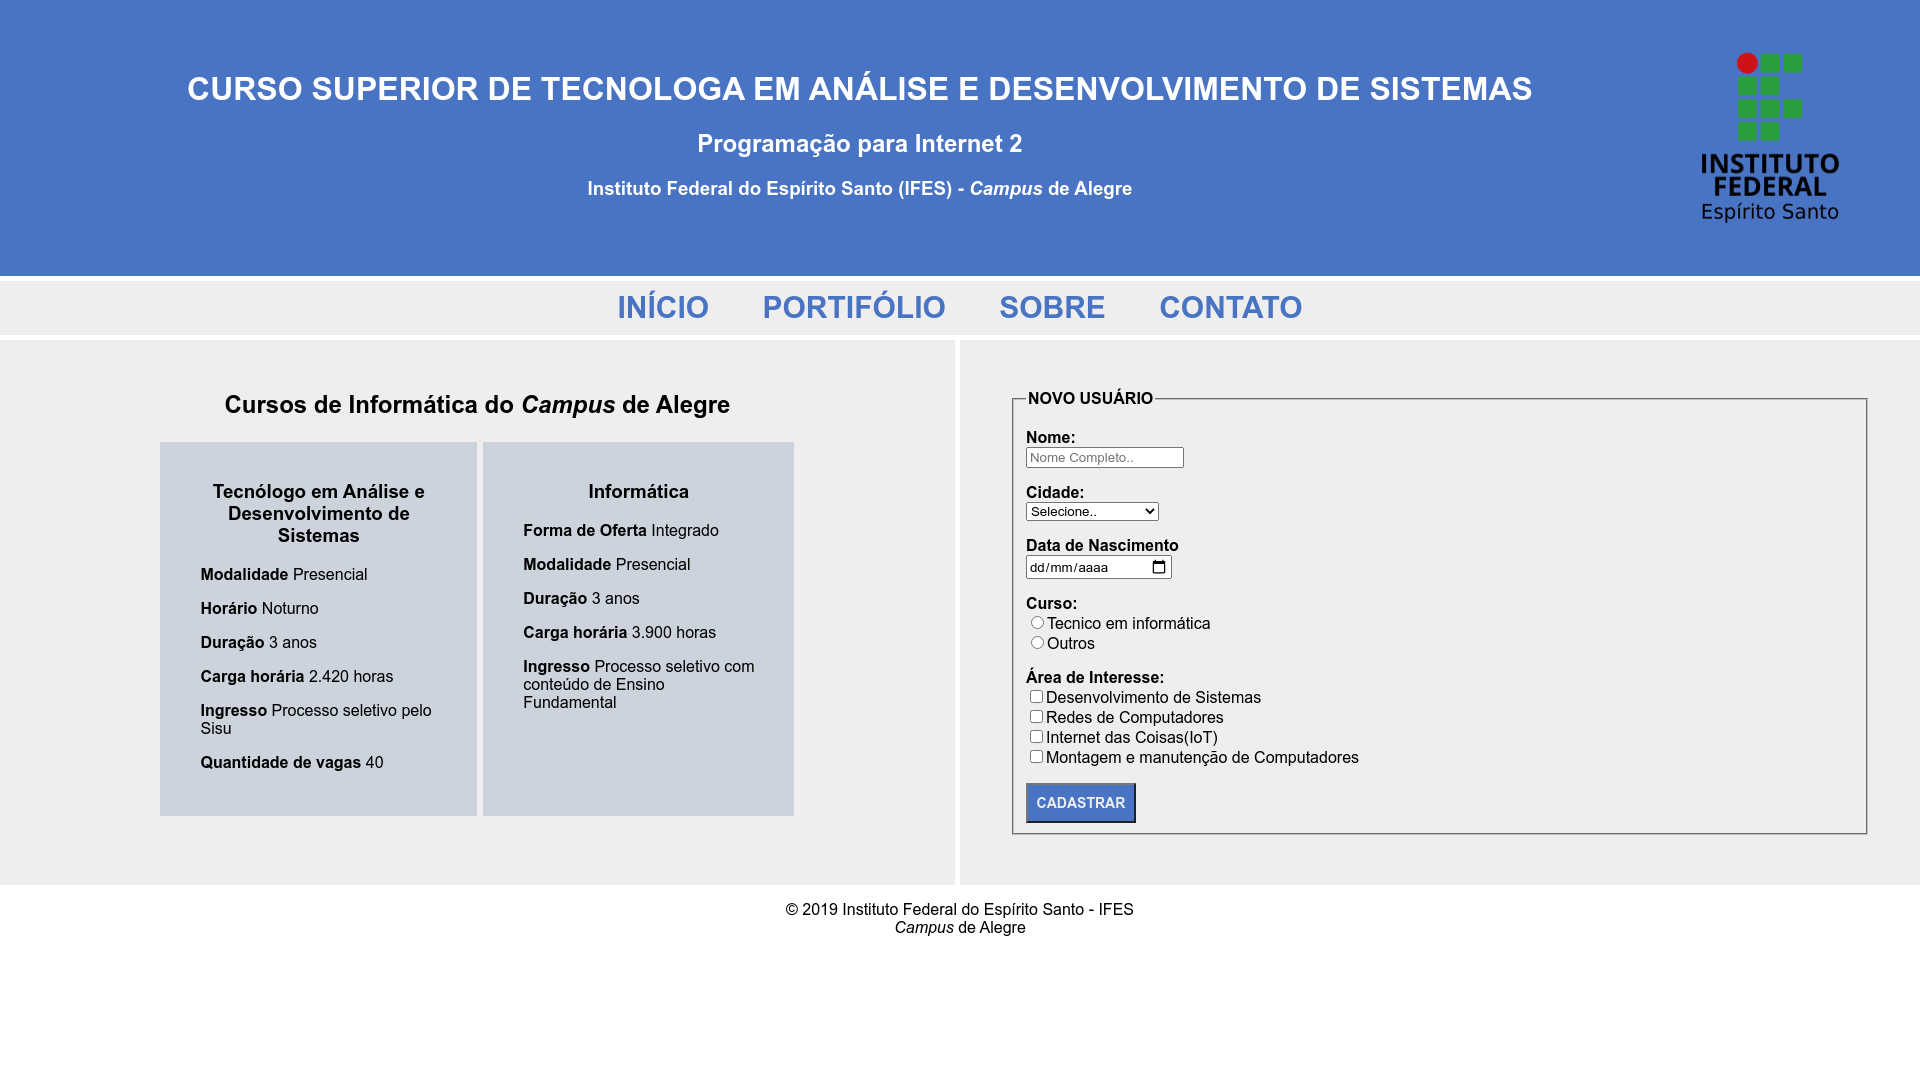
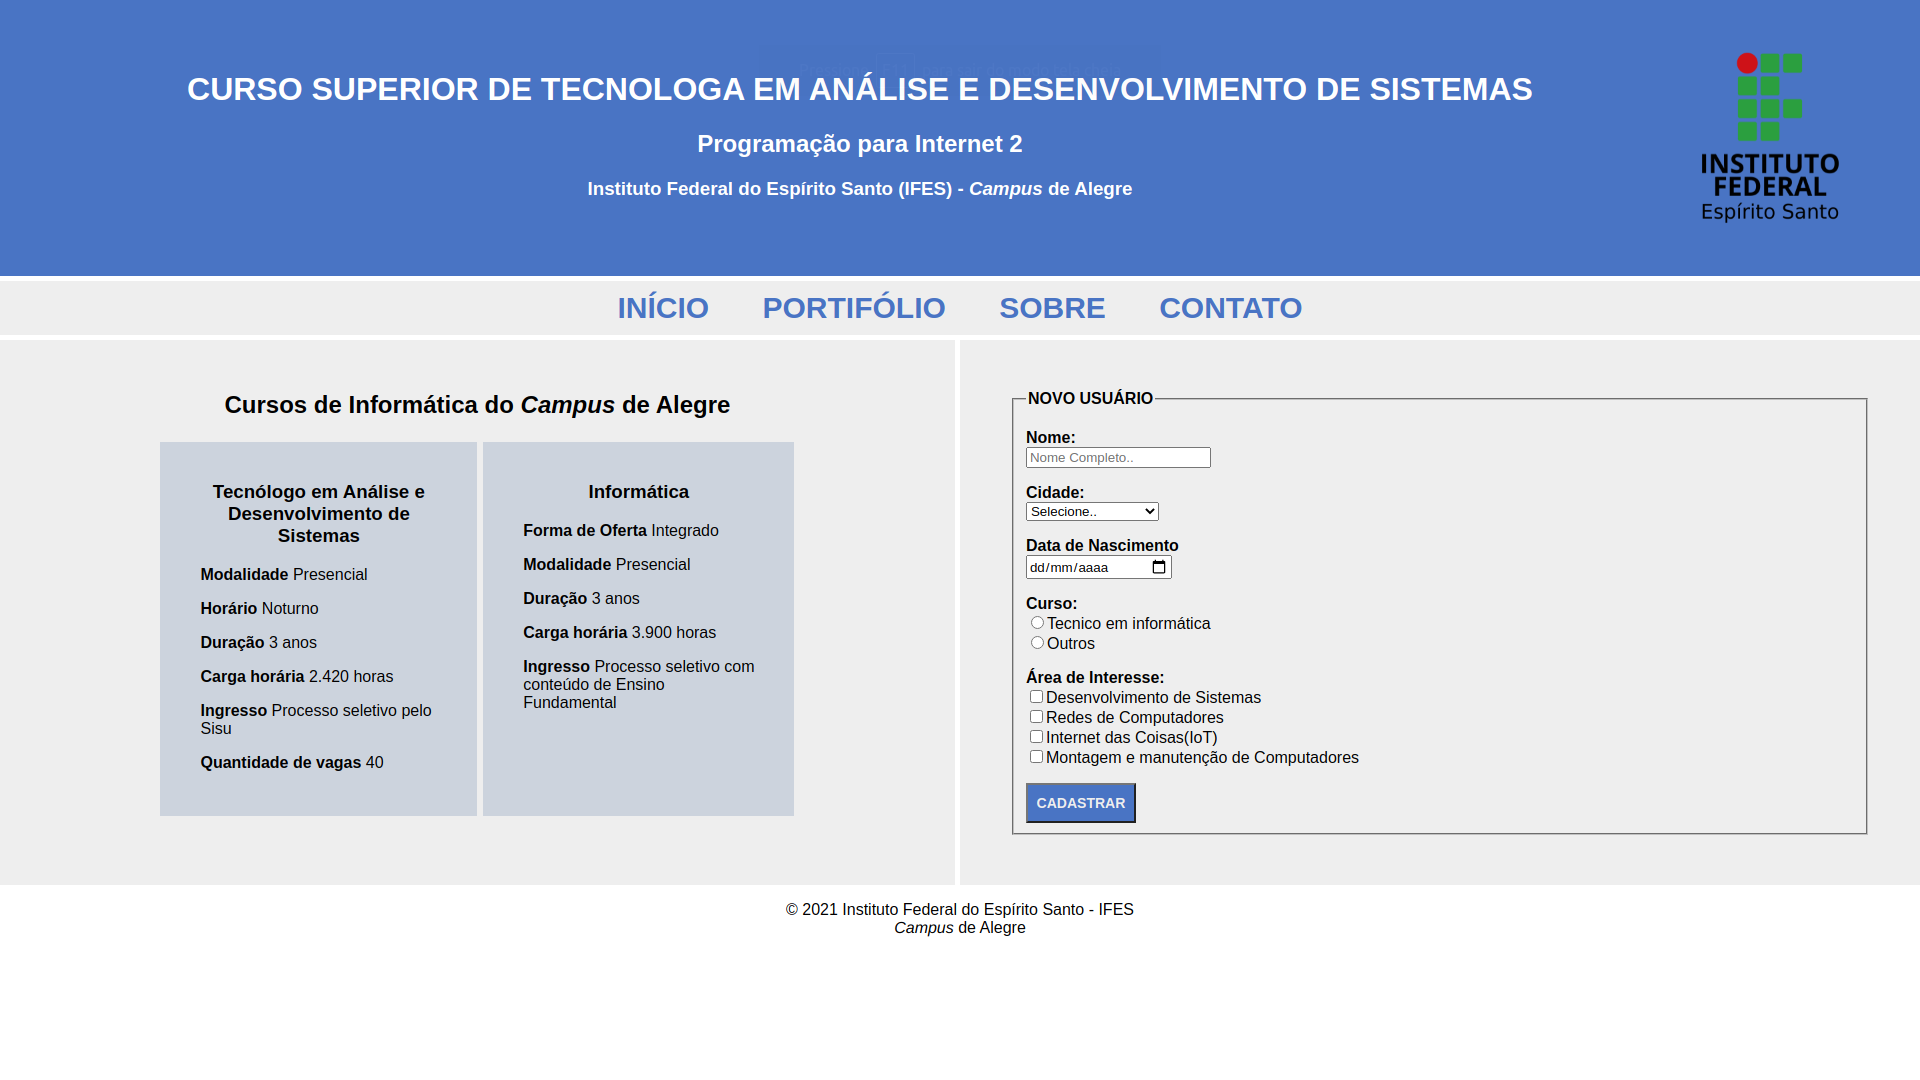
Corrigido detalhes

diff --git a/Web/Copia-da-Pagina-do-IFES v2/index.html b/Web/Copia-da-Pagina-do-IFES v2/index.html
@@ -103,7 +103,7 @@
 
     <footer>
       <p>
-        &copy; 2019 Instituto Federal do Espírito Santo - IFES<br /><i
+        &copy; 2021 Instituto Federal do Espírito Santo - IFES<br /><i
           >Campus</i
         >
         de Alegre
